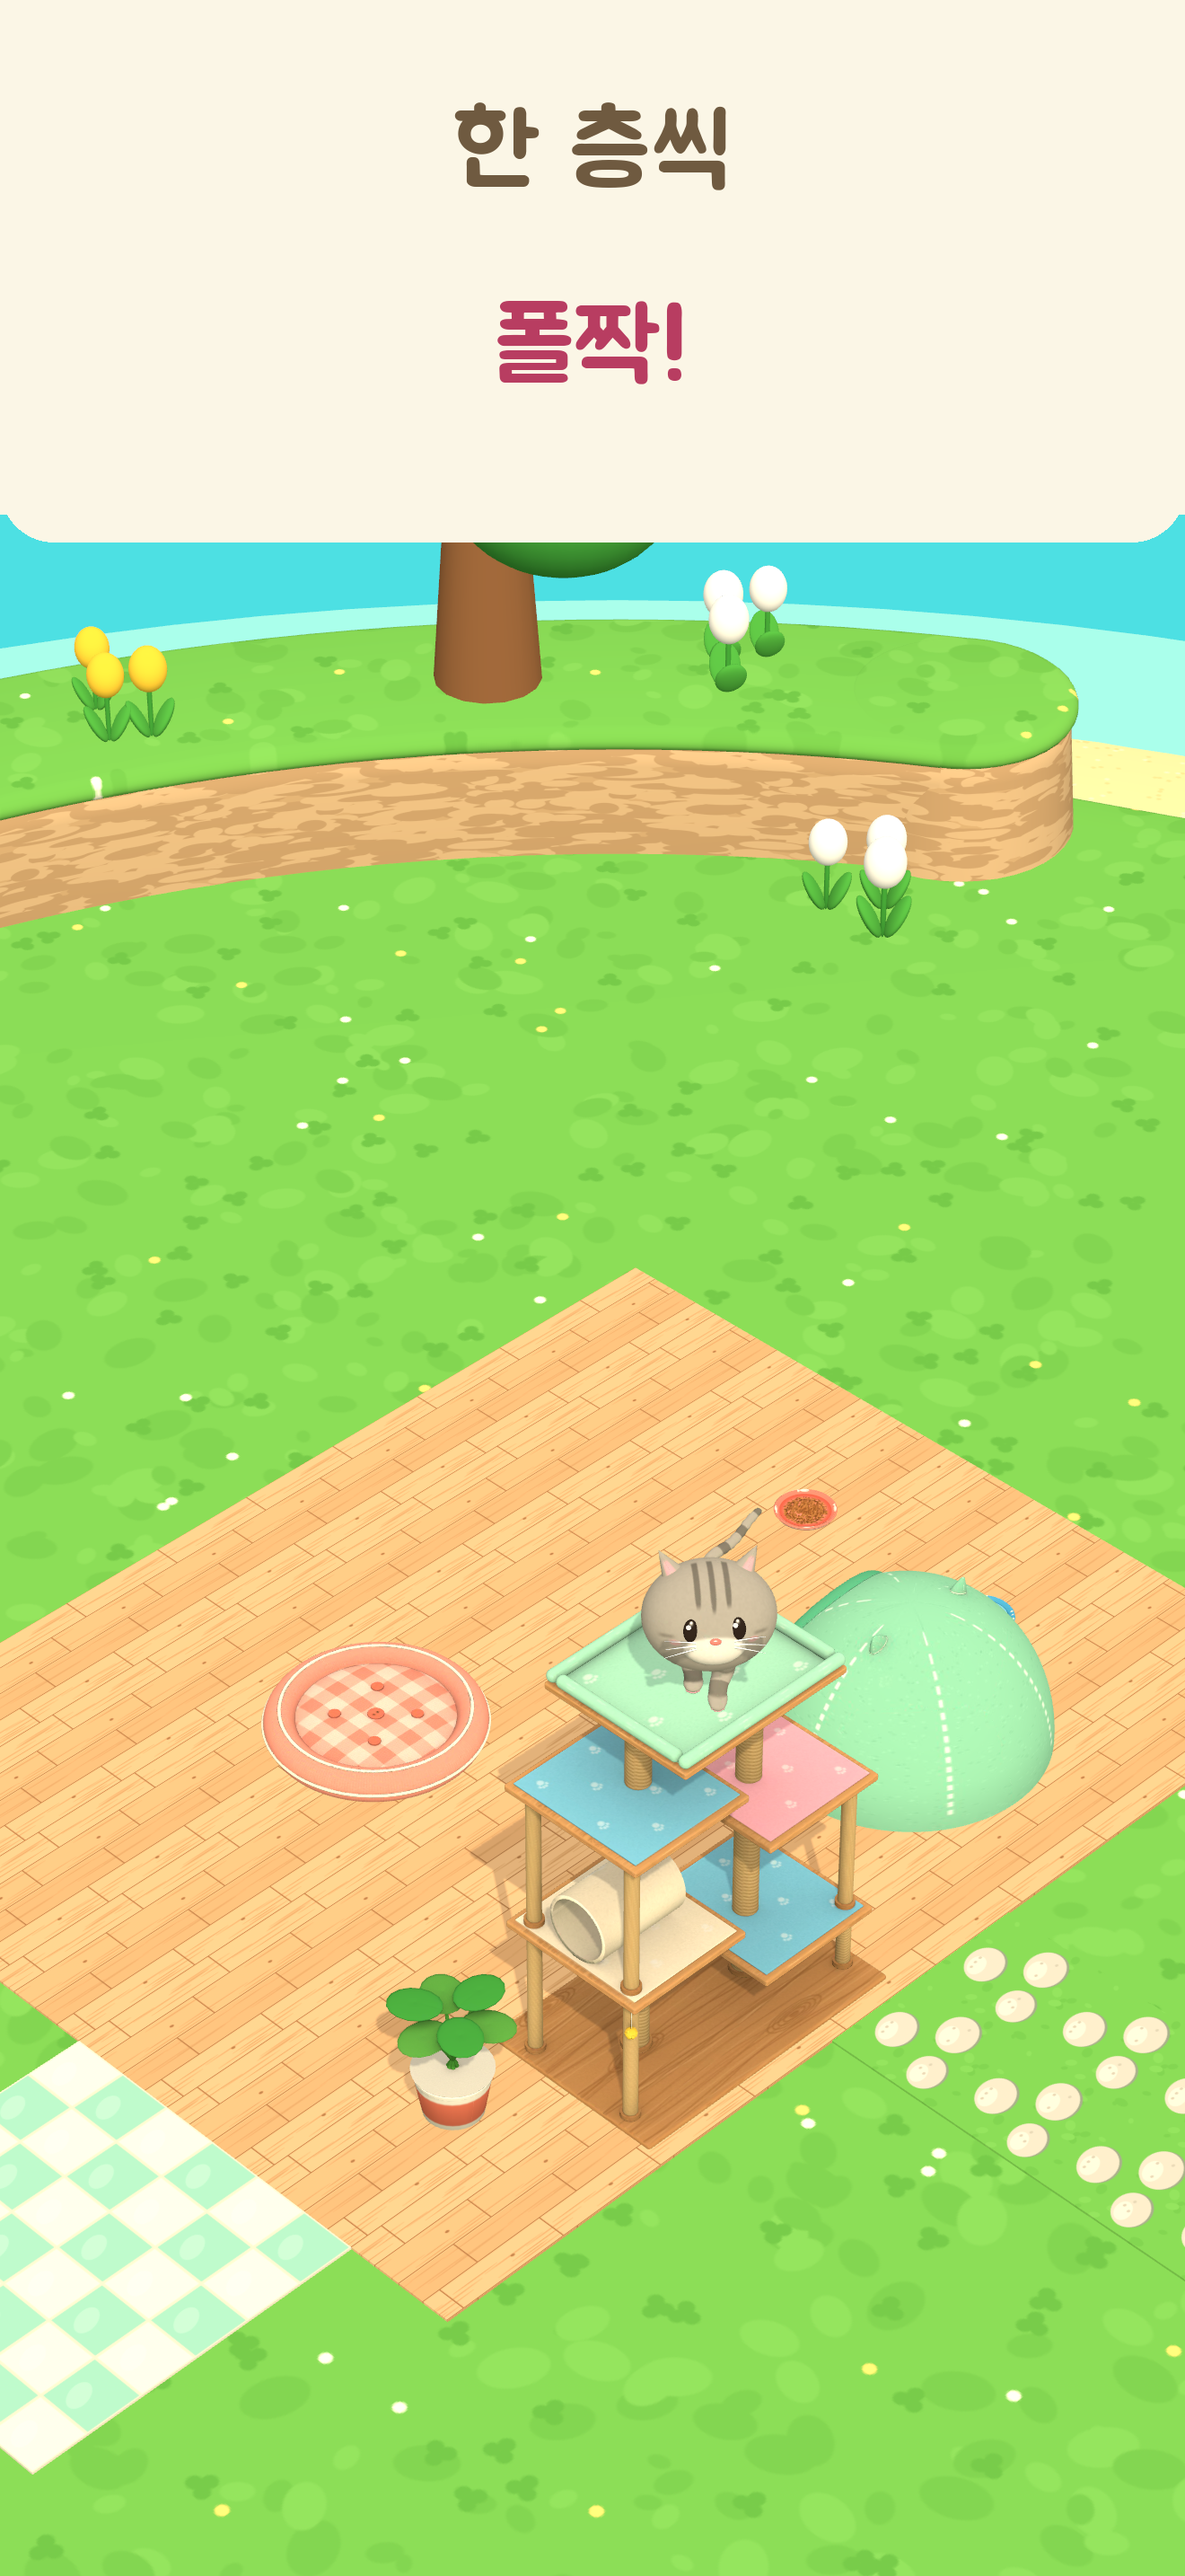
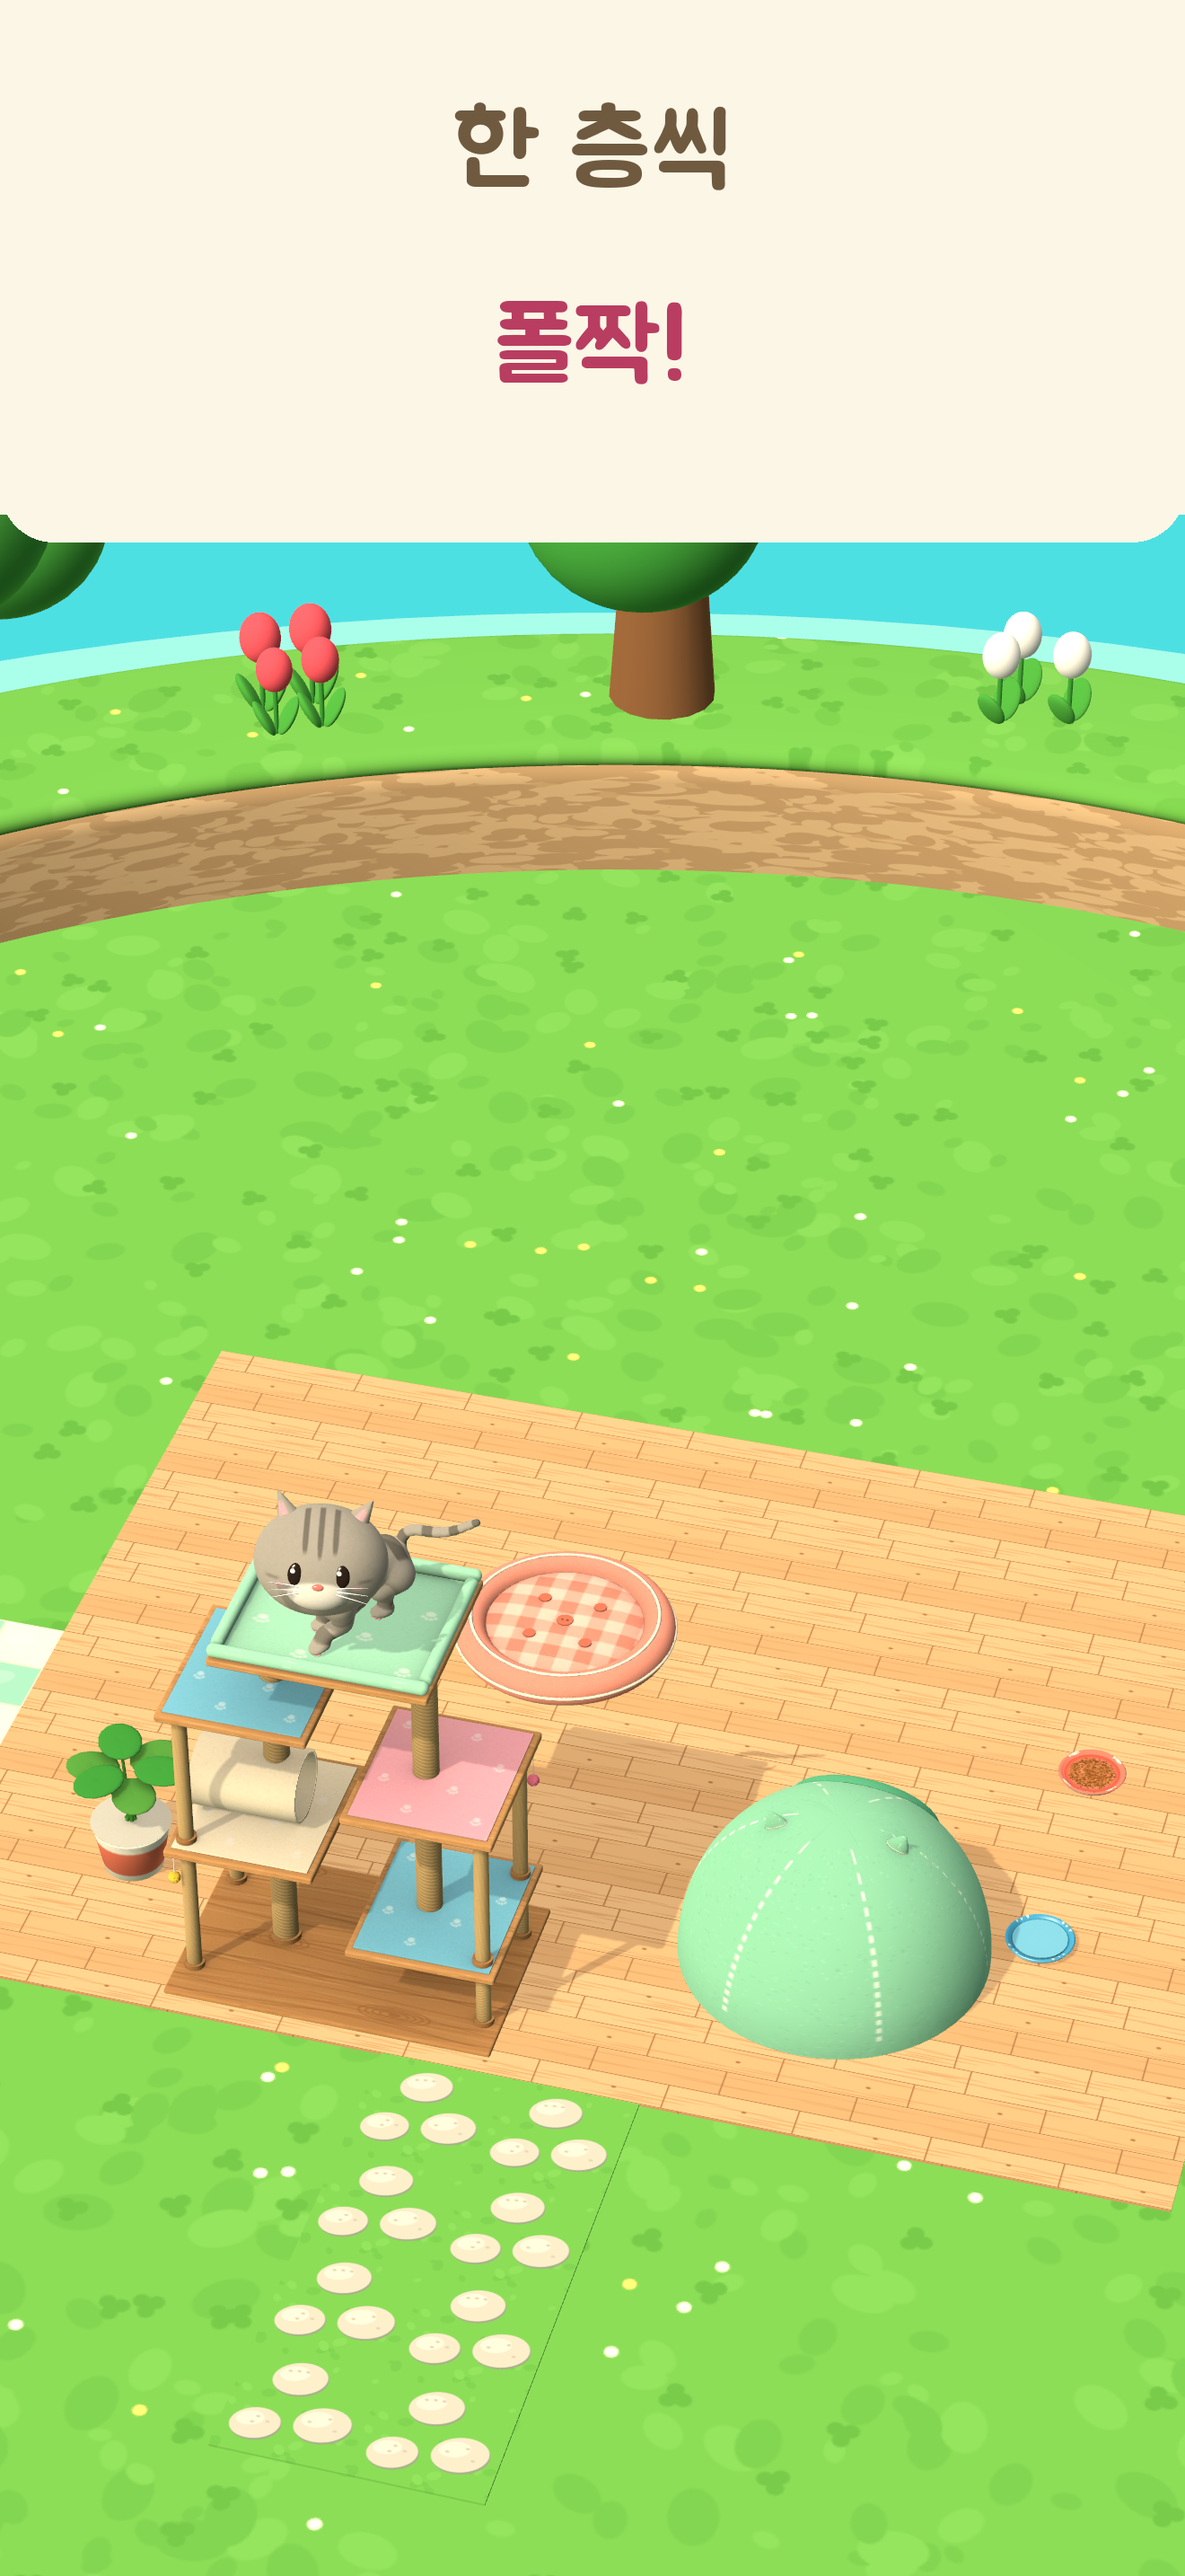
고양이섬: 앱스토어 스크린샷 1번을 웃는 얼굴로 다시

diff --git a/cat-island/unity/Assets/CatIsland/Tests/PlayMode/StoreShots.cs b/cat-island/unity/Assets/CatIsland/Tests/PlayMode/StoreShots.cs
@@ -46,14 +46,14 @@ namespace CatIsland.Tests
             Cat.Needs.SetForTest(1f, 1f); Cat.NoteUserActivity();
             Cat.transform.SetPositionAndRotation(new Vector3(0f, 0f, -0.6f), Quaternion.Euler(0f, 150f, 0f)); Cat.ForceState(CatState.Idle);
             game.IslandCam.follow = Cat.transform; game.IslandCam.zoomLevel = 1; game.IslandCam.SnapNow(); yield return null;
-            yield return Stroke(() => BackPoint, 2f);
+            yield return Stroke(() => BackPoint, 2f, () => Cat.Pet.Pleasure > .45f);   // (웃는 얼굴까지: 더 쓰다듬으면 발라당)
             var headFocus = new GameObject("HeadFocus").transform; game.IslandCam.follow = headFocus;
             game.IslandCam.BeginPhoto();
             for (int k = 0; k < 2; k++)   // (쓰다듬으면 고양이가 몸을 돌린다: 돌린 뒤 머리 쪽에서 다시 맞춘다)
             {
                 game.IslandCam.FramePhoto(Cat.Rig.Head.eulerAngles.y + 180f - 25f, 18f, 3.0f);
                 headFocus.position = Vector3.Lerp(Cat.Rig.Head.position, Cat.Rig.BodyZone.position, .35f) - Vector3.up * .4f;   // (머리와 몸 사이)
-                yield return Stroke(() => BackPoint, .6f);
+                yield return Stroke(() => BackPoint, .6f, () => Cat.Pet.Pleasure > .6f);
             }
             Debug.Log($"[StoreShots] cat yaw {Cat.transform.eulerAngles.y:F0} head yaw {Cat.Rig.Head.eulerAngles.y:F0} cam yaw {game.IslandCam.transform.eulerAngles.y:F0}");
             Capture("1_petting");

diff --git a/cat-island/docs/DEV_LOG.md b/cat-island/docs/DEV_LOG.md
@@ -147,3 +147,4 @@
   - 테스트 Petting_Smile_Flop_ThenAfterglow (단계마다 Shots/petting, docs/images/checks/petting_flow.png). EditMode 46, PlayMode 42.
 - 2026-10-11 발라당할 때 배를 보이면서 머리를 카메라 쪽으로 35도 더 틀어 웃는 얼굴이 보이게(docs/images/checks/petting_flop_face.png). 고양이를 톡 하면 고개 갸웃(귀도 따라 흔들림). EditMode 46, PlayMode 42.
 - 2026-10-11 다시 왔을 때 반기기: 10분 넘게 떠났다 앱으로 돌아오거나 새로 열면 깨어 있는 고양이 둘까지 카메라 앞으로 와 앉아 야옹·하트, '왔구나!'(자는 고양이는 깨우지 않음). 테스트 WelcomeBack_AwakeCatsGreet_SleepersKeepSleeping. EditMode 46, PlayMode 43.
+- 2026-10-11 앱스토어 스크린샷 다시: 쓰다듬기가 빨라져 발라당 도중에 찍히던 1번을 '웃는 얼굴'(기쁨 45~60 %)에서 찍게.
